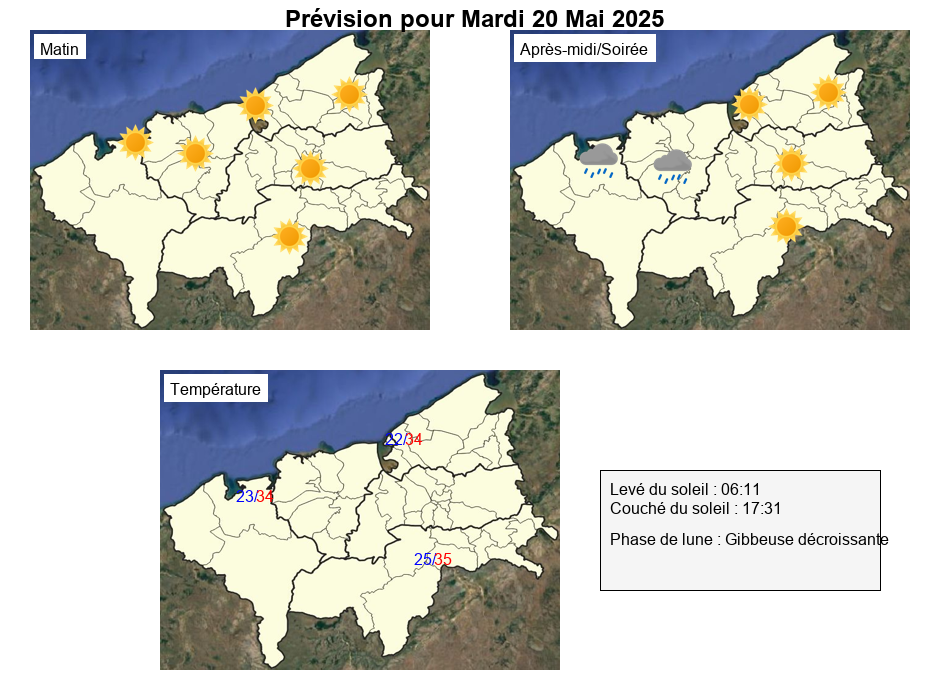
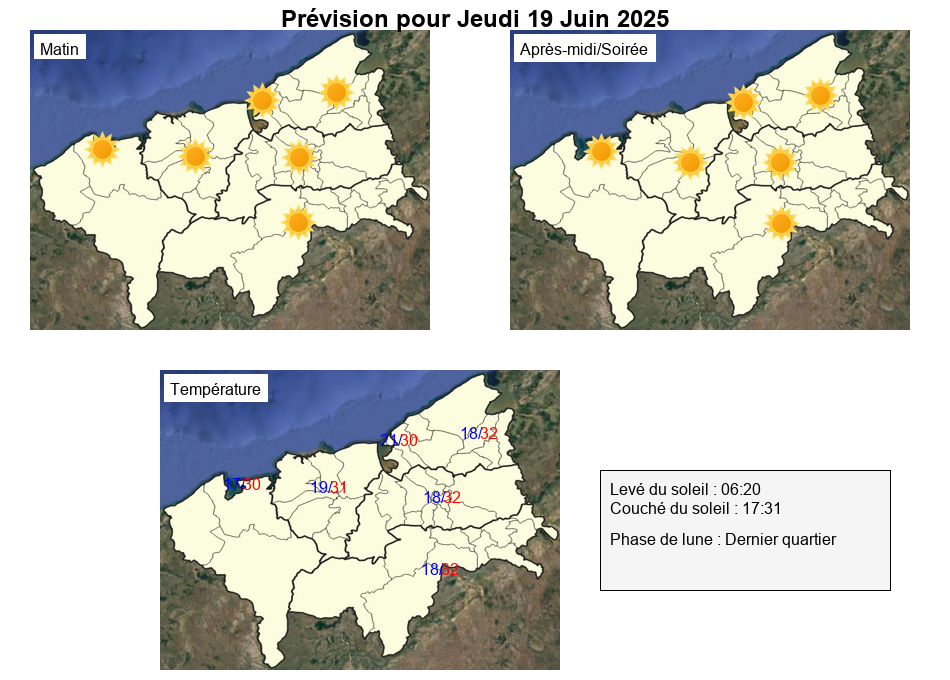
Forecast on 19/06/2025
Forecast on 19/06/2025
Warning : None

diff --git a/script.js b/script.js
@@ -1,26 +1,29 @@
 // --- CONFIGURABLE PARAMETERS ---
-const niveauAlerte = "yellow";       // Options: "none", "blue", "green", "yellow", "red"
+const niveauAlerte = "none";       // Options: "none", "blue", "green", "yellow", "red"
 const typeCatastrophe = "cyclone"; // Options: "cyclone", "flood", "rainflood", "forestfire", "lightning", "flood", "stormsurge", "drivingconditions"
 
 const messages = [
-    `✅ **Aucune alerte ou vigilance en cours**  
-    Les conditions météorologiques sont calmes pour le moment.  
+    `✅ **Aucune vigilance ou alerte en cours**  
+    Les conditions météorologiques sont calmes pour les 3 jours.  
     Restez informé en cas d’évolution de la situation.`,
 
     ` **Prévisions – Jour 1 (Aujourd’hui)**  
-    Quelques pluies légères le matin, éclaircies l’après-midi.  
-    Vents : Modérés de sud-est.  
-    Températures : 24–29°C.`,
+    Temps ensoleillé toute la journée.
+    Vents : Vents légers de secteur ESE
+    Températures minimales : entre 17 et 21 °C
+    Températures maximales : entre 30 et 32 °C.`,
 
     ` **Prévisions – Jour 2 (Demain)**  
-    Partiellement nuageux, averses isolées en soirée.  
-    Vents : Légers et variables.  
-    Températures : 25–30°C.`,
+    Temps ensoleillé toute la journée.
+    Vents : Vents légers de secteur ESE
+    Températures minimales : entre 17 et 22 °C
+    Températures maximales : entre 30 et 33 °C.`,
 
     ` **Prévisions – Jour 3 (Après-demain)**  
-    Ciel couvert avec risque d’orages en après-midi.  
-    Vents : Rafales possibles près des orages.  
-    Températures : 23–28°C.`
+    Temps ensoleillé le matin, peu nuageux dans quelques endroits l'après-midi.
+    Vents : Vents légers de secteur ESE
+    Températures minimales : entre 17 et 22 °C
+    Températures maximales : entre 30 et 33 °C.`
 ];
 
 const imageSets = [
@@ -96,7 +99,7 @@ async function displayMessages() {
         await scrollMessage(message);
         await new Promise(resolve => setTimeout(resolve, 1000));
         updateImages();
-        await new Promise(resolve => setTimeout(resolve, 4000));
+        await new Promise(resolve => setTimeout(resolve, 6000));
         currentMessageIndex = (currentMessageIndex + 1) % messages.length;
         await new Promise(resolve => setTimeout(resolve, 1000));
     }

diff --git a/index.html b/index.html
@@ -94,6 +94,6 @@
     <div id="message"></div>
     <div id="image-container"></div>
     <script src="script.js"></script>
-    <div id="footer">Experiment mode by SRM BOENY, 2025</div>
+    <div id="footer">By SRM BOENY, 2025</div>
 </body>
 </html>
